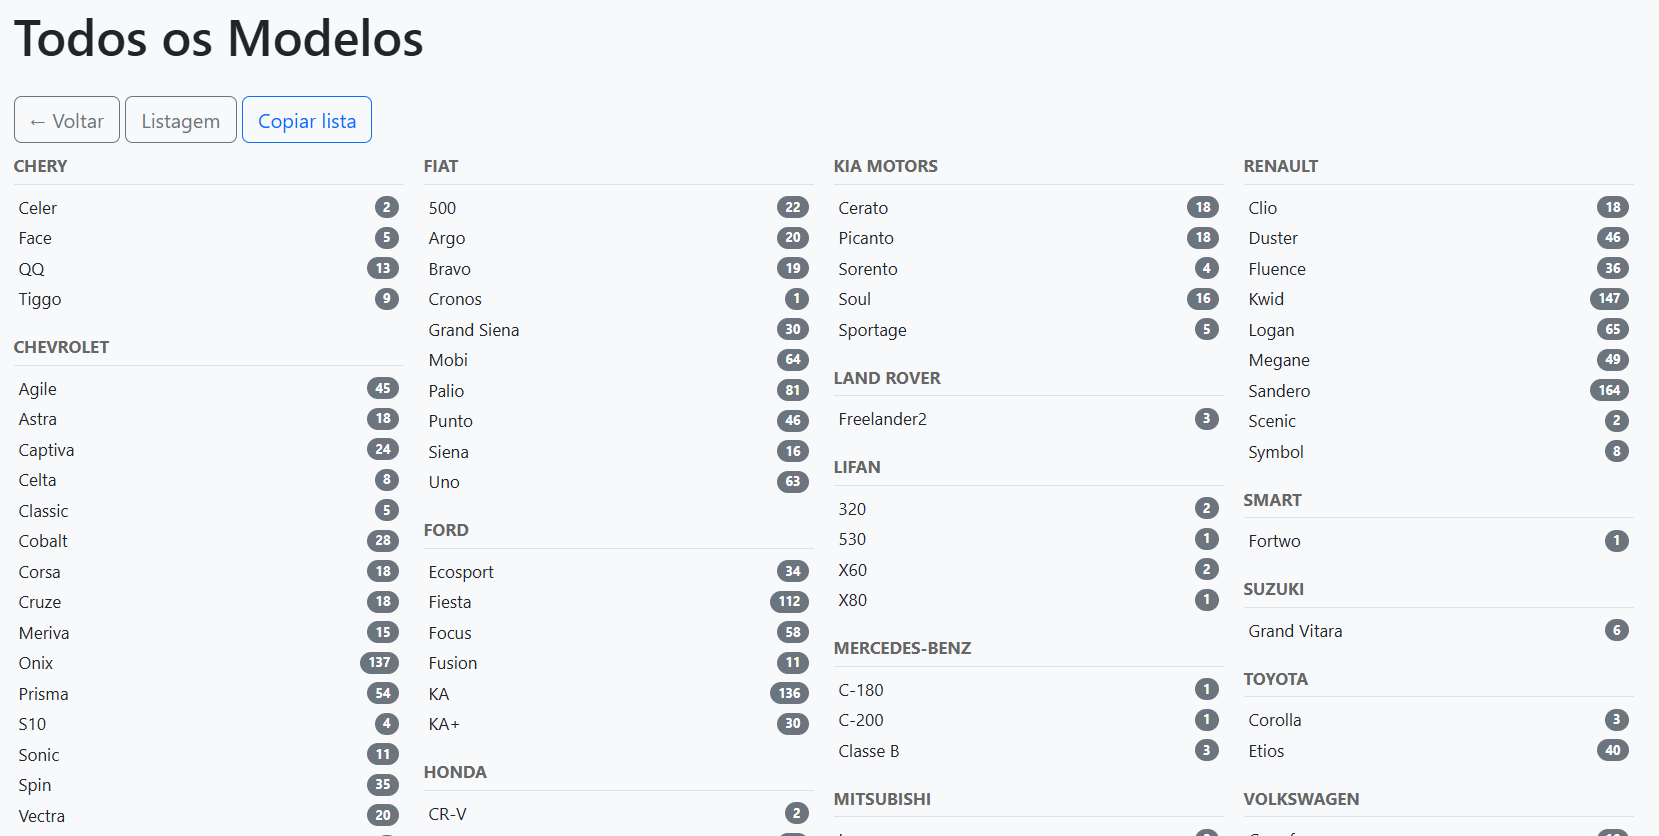
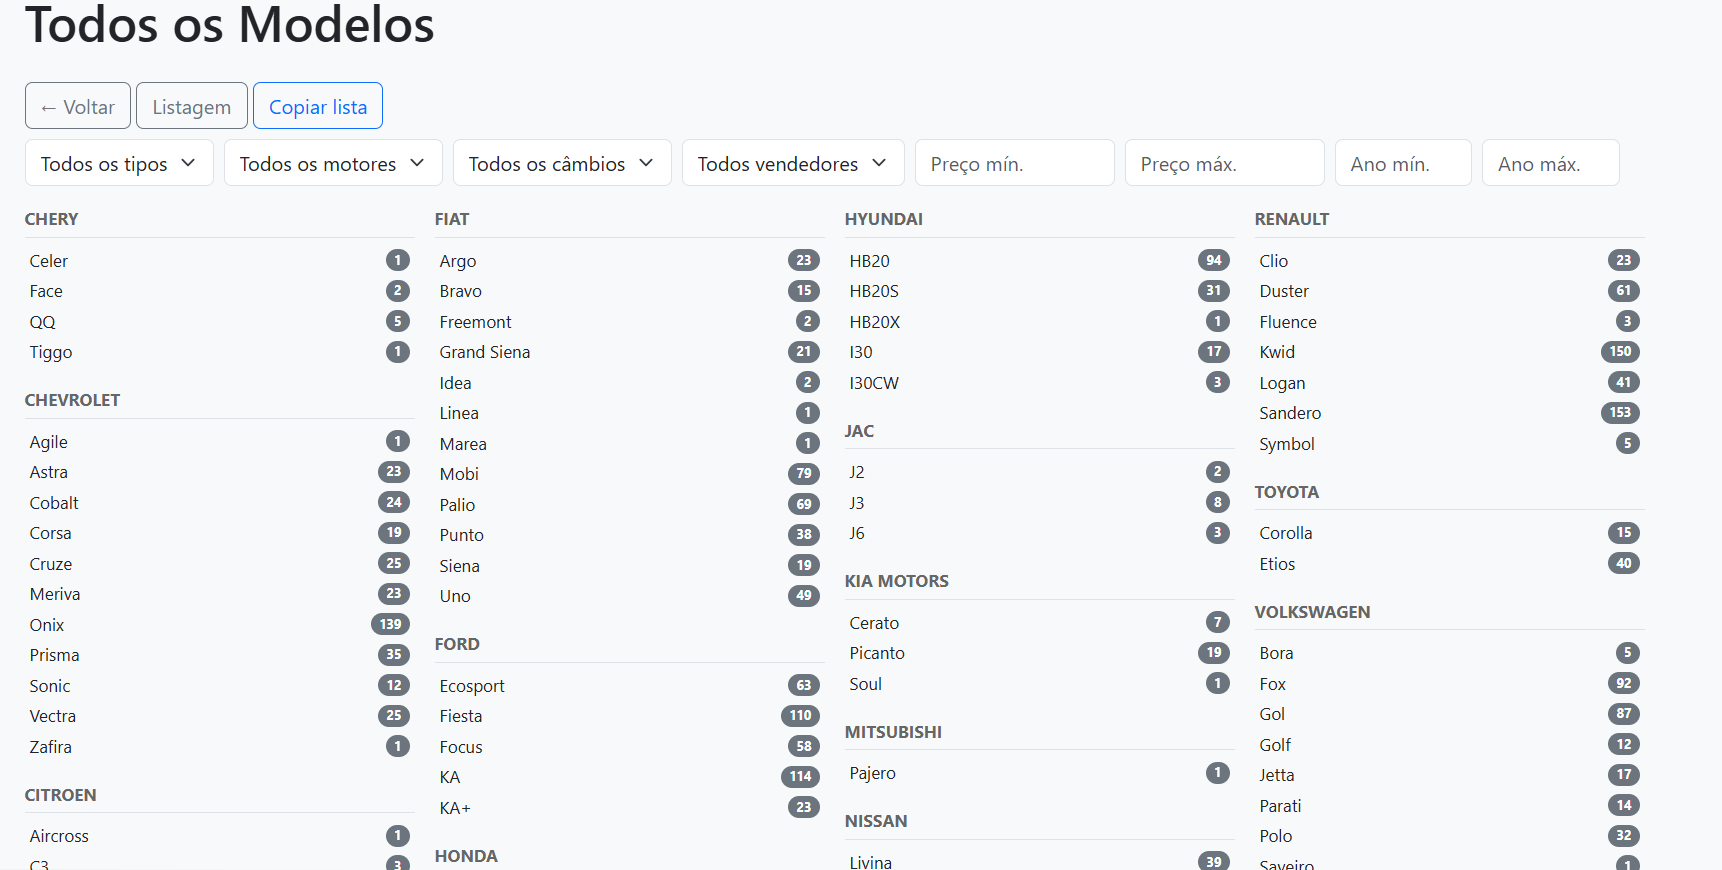
atualizar o readme

diff --git a/web/templates/todos_modelos.html b/web/templates/todos_modelos.html
@@ -82,6 +82,7 @@
       var v = this.value.replace(/\D/g, '');
       this.value = v ? 'R$ ' + parseInt(v, 10).toLocaleString('pt-BR') : '';
     });
+    el.addEventListener('change', filtro);
     el.dispatchEvent(new Event('input'));
   });
   function _rawPrice(id) {

diff --git a/README.md b/README.md
@@ -79,9 +79,26 @@ Em `config.py`:
 
 ### Listagem de anúncios
 
-Tabela com foto, título, preço, ano, KM, cidade e ações (ignorar/favoritar). Barra lateral com filtros por marca, modelo, cidade, bairro, tipo, motor, câmbio e ano.
+Tabela com foto, título, preço, ano, KM, cidade e ações (detalhes, ignorar/favoritar). Barra lateral com filtros por marca, modelo, cidade, bairro, tipo, motor, câmbio e ano.
 
 ![Listagem de anúncios](imagens/listagem_anuncios.png)
+
+### Detalhes do anúncio
+
+Botão **"Detalhes"** em cada anúncio abre um modal com três abas:
+
+- **Visão Geral** — carrossel de imagens (clique para ampliar), título, local, tipo de vendedor, tabela de preços (Anúncio × OLX × FIPE + diferença e % FIPE) e descrição completa.
+- **Dados do Anúncio** — campos editáveis (Marca, Modelo, Tipo, Motor, Câmbio) e informações adicionais (Ano, KM, Combustível, Cor, Vendedor, datas de criação/atualização). O botão "Salvar alterações" envia as edições para o banco.
+- **Observação** — campo de texto livre para anotações pessoais sobre o anúncio.
+
+O modal também oferece atalhos para **Favoritar** e **Ignorar** o anúncio, e o botão **"Forçar novo scrape"** busca dados atualizados (descrição e preços de referência) diretamente da página do anúncio na OLX.
+
+Os preços de referência (médio OLX e FIPE) são armazenados no banco na primeira vez que o modal é aberto e reutilizados nas próximas vezes.
+
+Ao clicar em uma imagem do carrossel, um **overlay fullscreen** é aberto com a imagem em tamanho original e navegação entre todas as fotos do anúncio.
+
+![Detalhes do anúncio](imagens/detalhes.png)
+![Zoom da imagem do anúncio](imagens/zoom_detalhes.png)
 
 ### Filtros
 